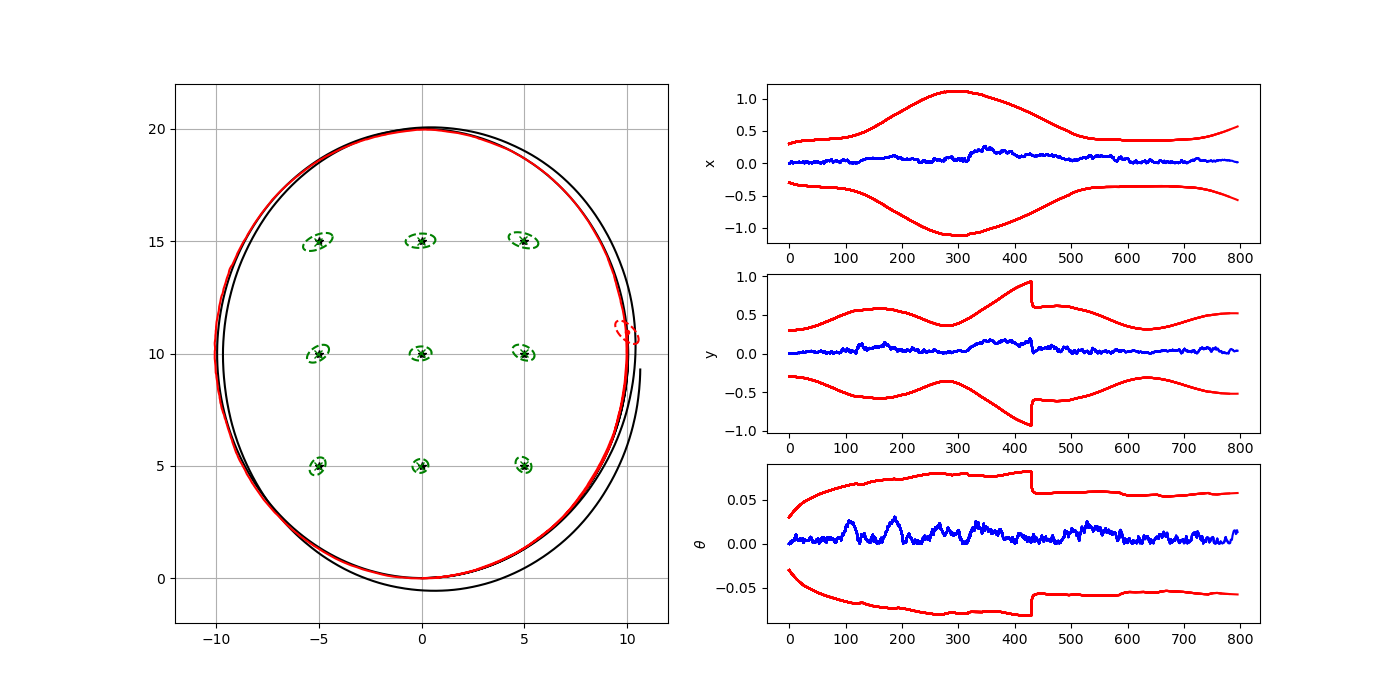
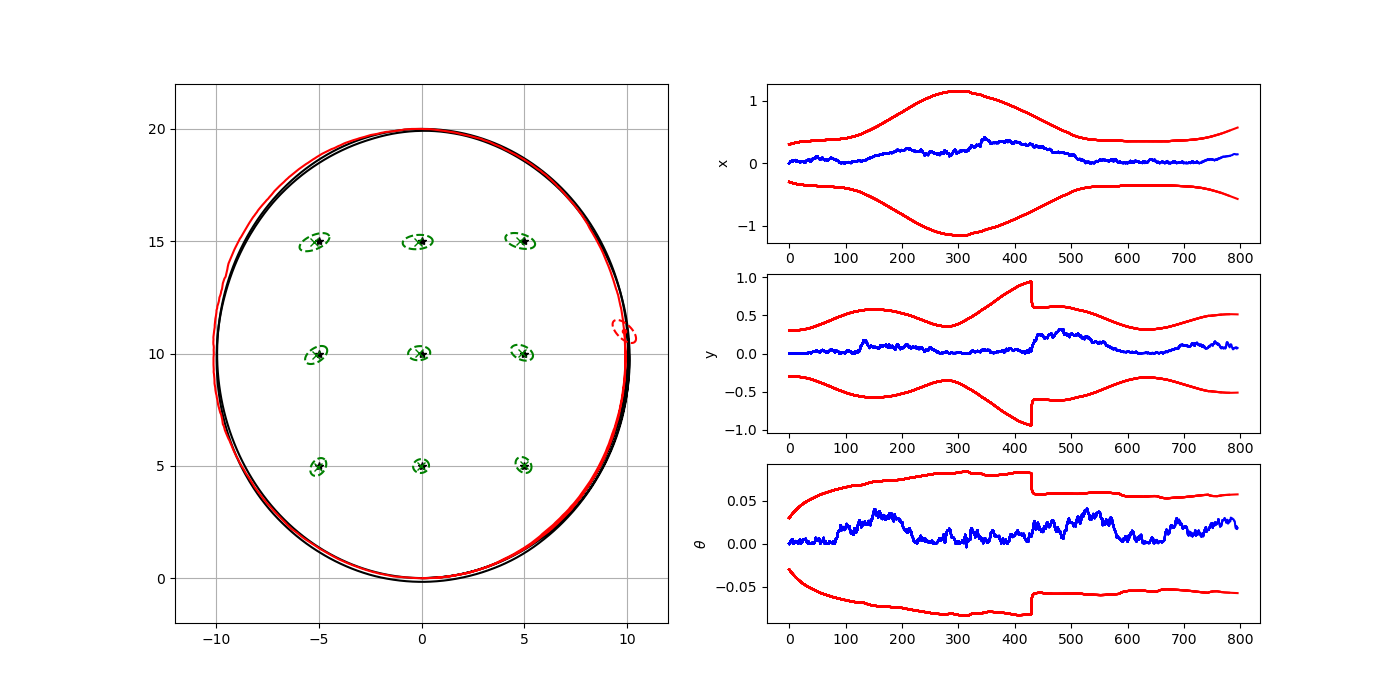
Doing exs 1 and 2

diff --git a/TP4/ekf_slam_complete.py b/TP4/ekf_slam_complete.py
@@ -15,9 +15,10 @@ DT = 0.1  # time tick [s]
 SIM_TIME = 80.0  # simulation time [s]
 MAX_RANGE = 10.0  # maximum observation range
 M_DIST_TH = 9.0  # Threshold of Mahalanobis distance for data association.
+# M_DIST_TH = 5.0 # Short loop
 STATE_SIZE = 3  # State size [x,y,yaw]
 LM_SIZE = 2  # LM state size [x,y]
-KNOWN_DATA_ASSOCIATION = 1  # Whether we use the true landmarks id or not
+KNOWN_DATA_ASSOCIATION = 0  # Whether we use the true landmarks id or not
 
 # Simulation parameter
 # noise on control input
@@ -373,6 +374,16 @@ def main():
     #                       [5.0, 15.0],
     #                       [5.0, 10.0],
     #                       [5.0, 5.0]])
+    
+    # Landmarks = np.array([[-2.5, 2.5],
+    #                       [-2.5, 5.0],
+    #                       [-2.5, 7.5],
+    #                       [0.0, 2.5],
+    #                       [0.0, 5.0],
+    #                       [0.0, 7.5],
+    #                       [2.5, 2.5],
+    #                       [2.5, 5.0],
+    #                       [2.5, 7.5]])
     
     # Spare map with few landmarks
     Landmarks = np.array([[-2.5, 0.0],
